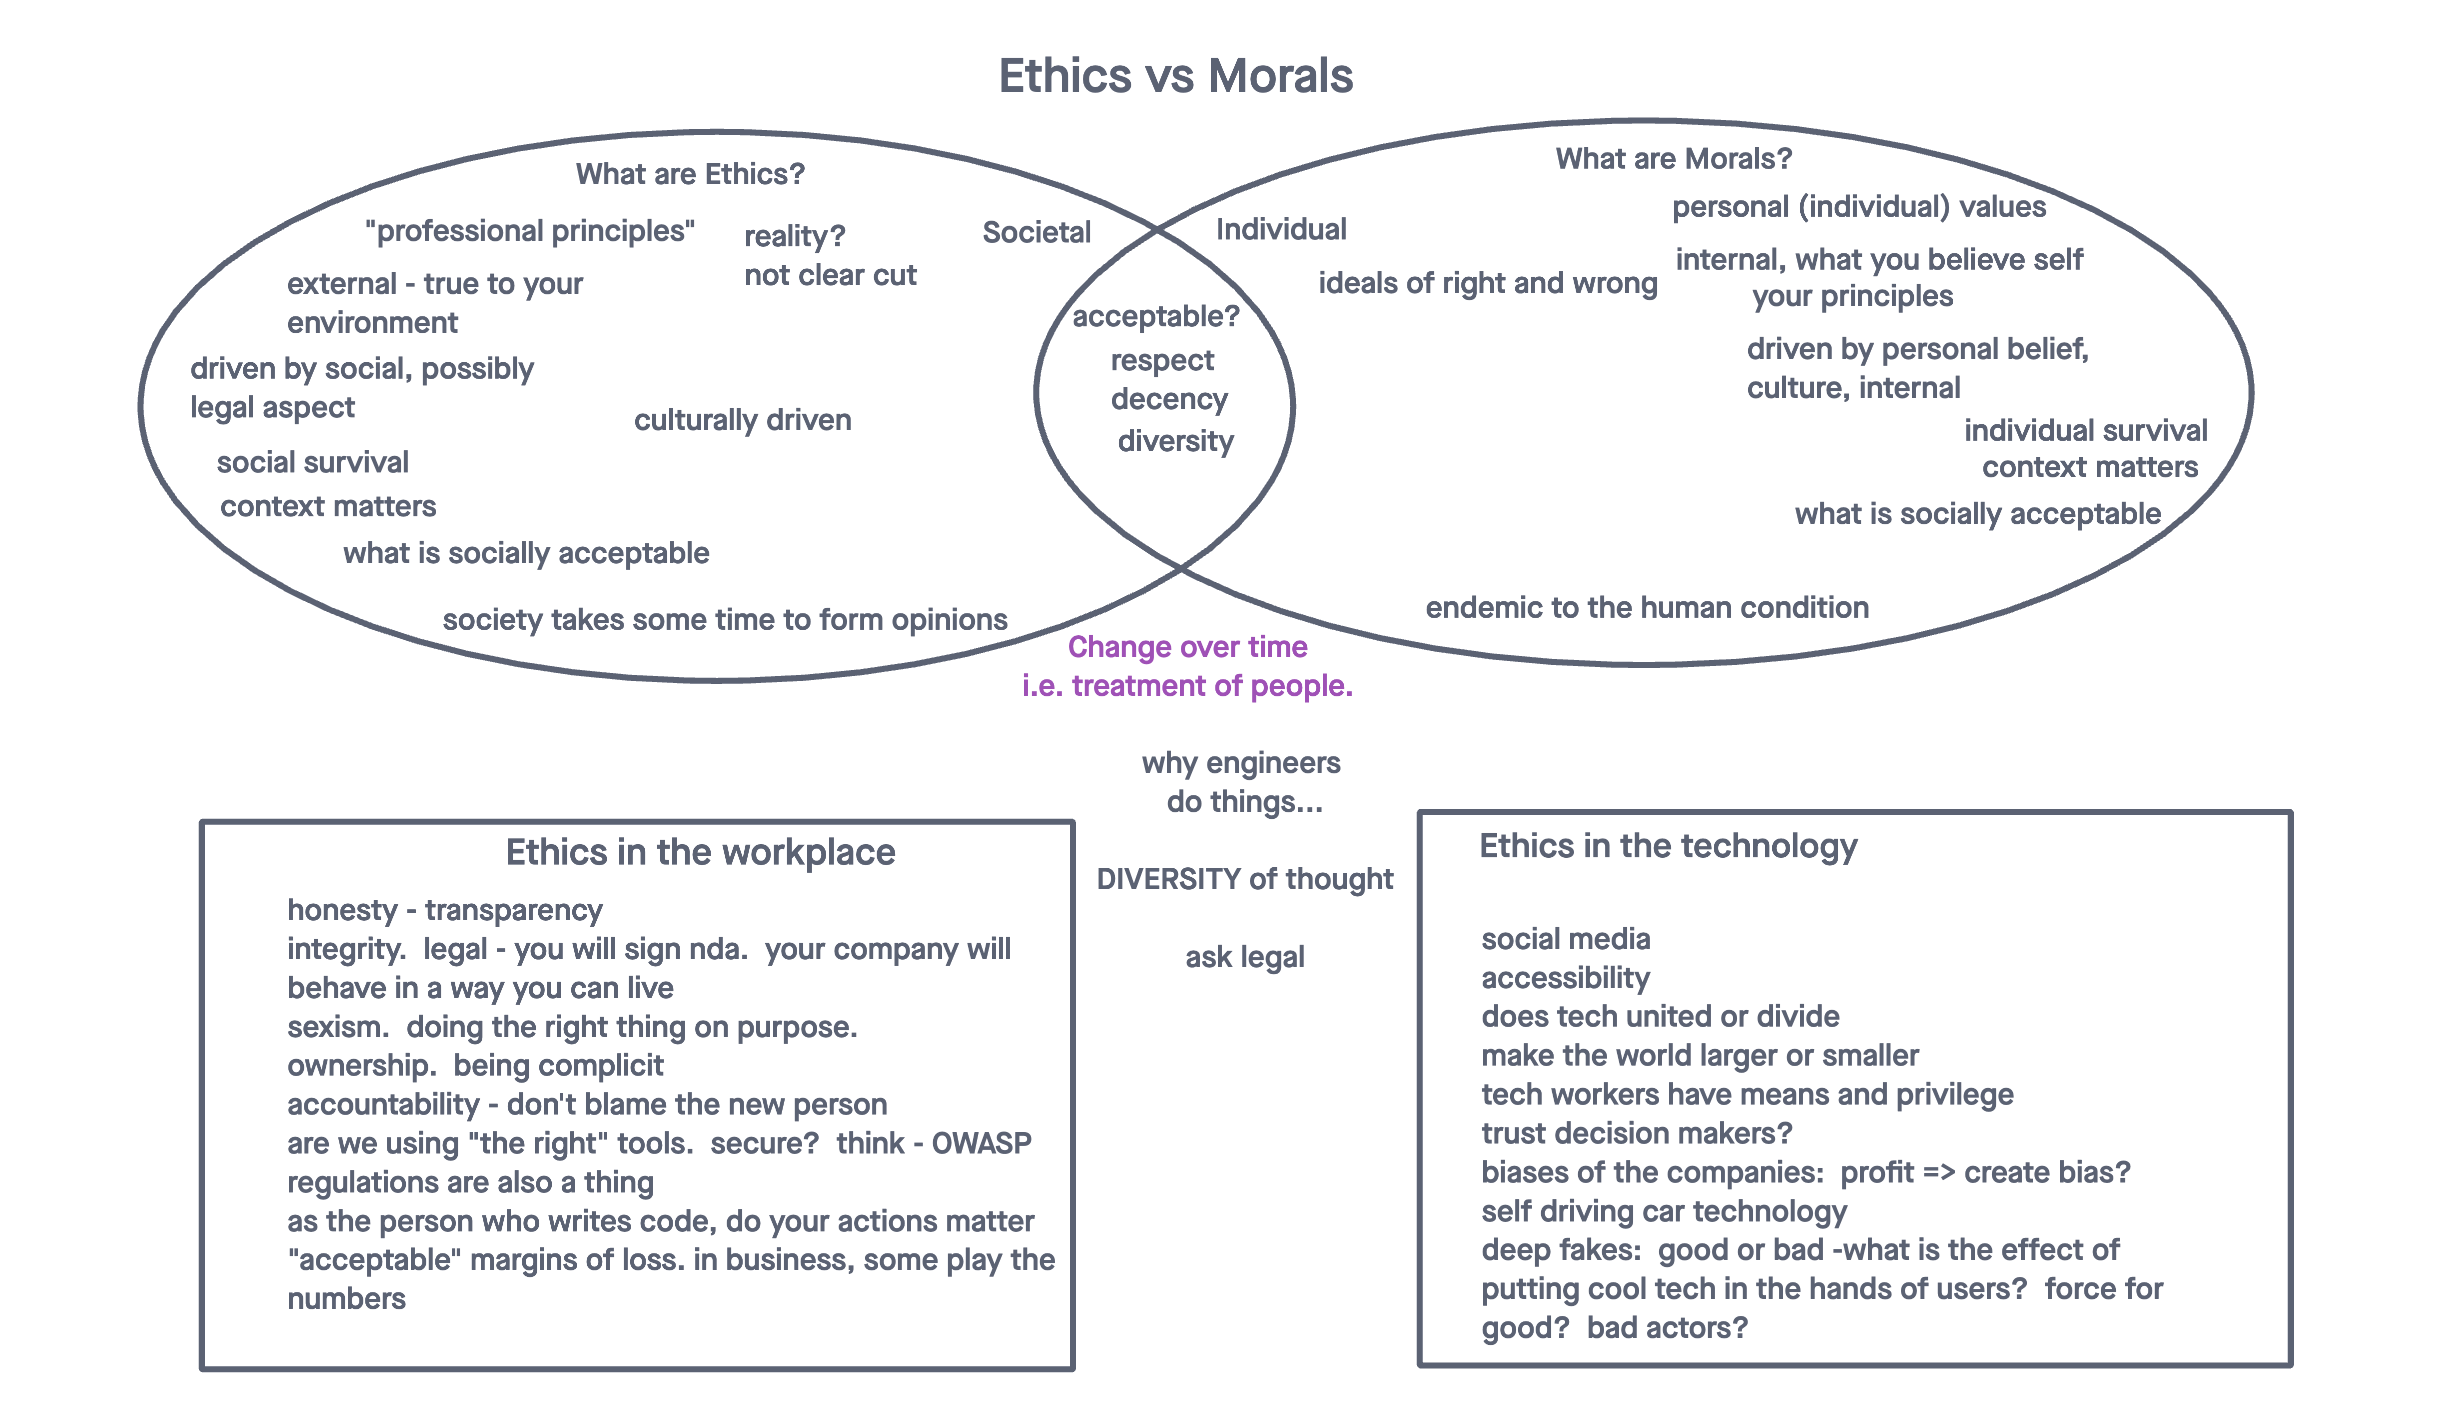
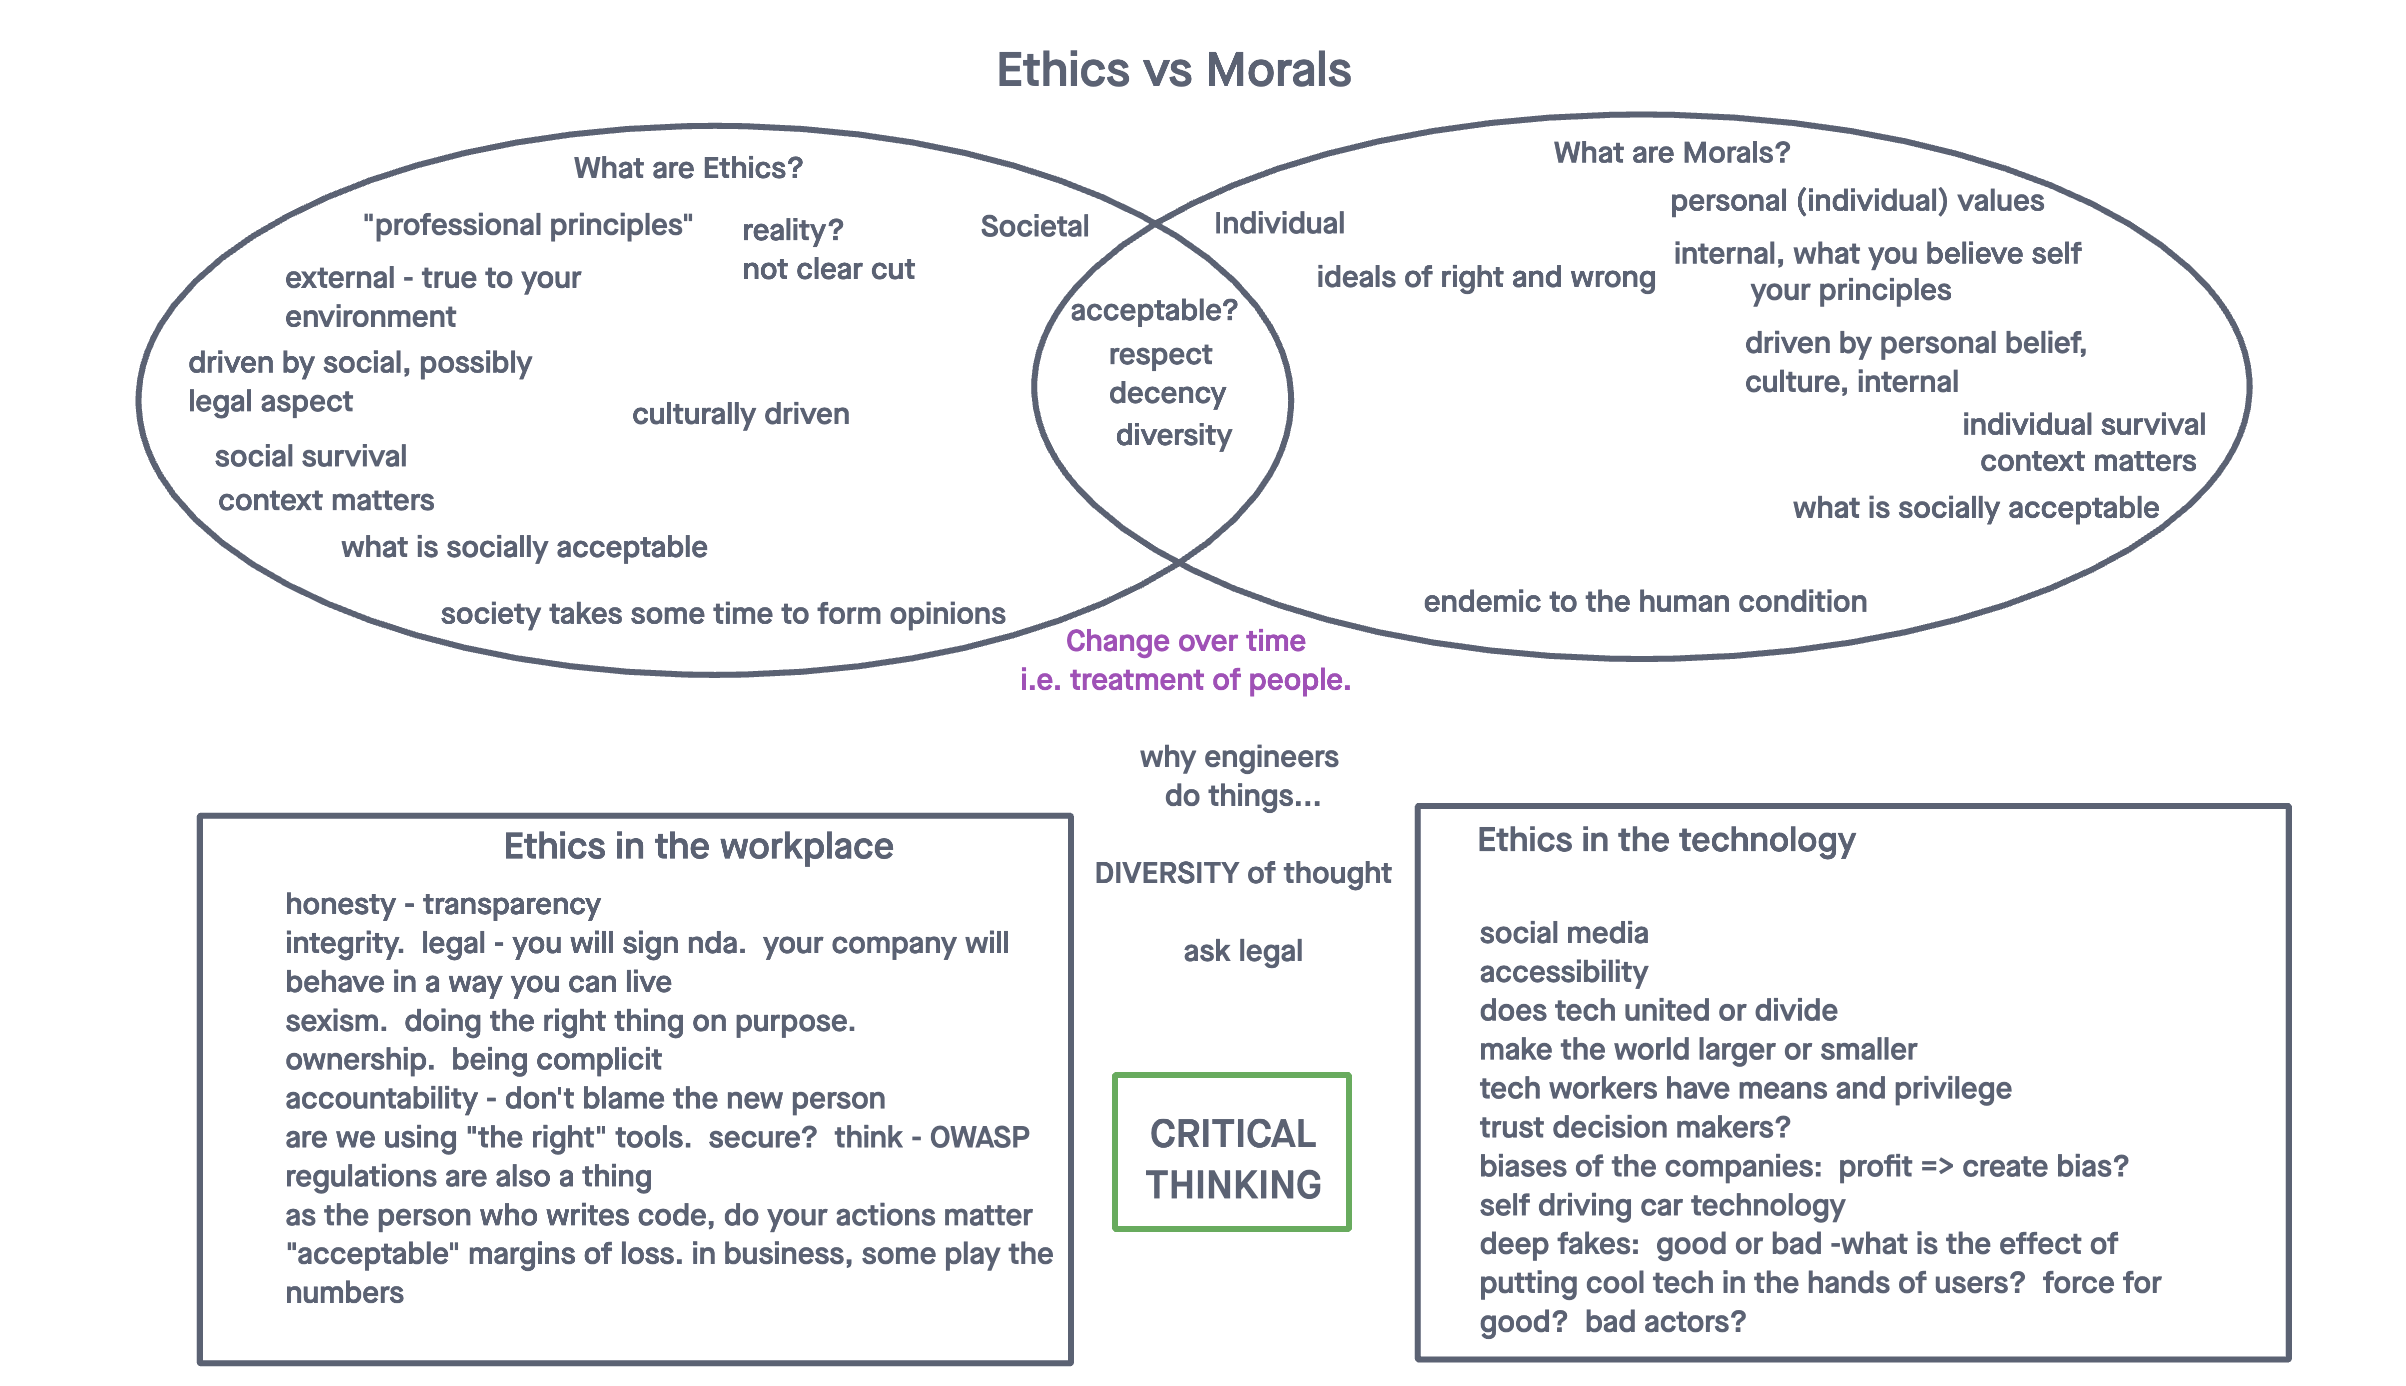
class assets

diff --git a/class-45/LECTURE.md b/class-45/LECTURE.md
@@ -1,5 +1,7 @@
 # Ethics in Tech
 
+another exercise in **critical thinking**
+
 [Today's Freehand](https://projects.invisionapp.com/freehand/document/liU19juoq)
 
 ![Ethics Conversation WHiteboard](./assets/ethics-401d48.png)
